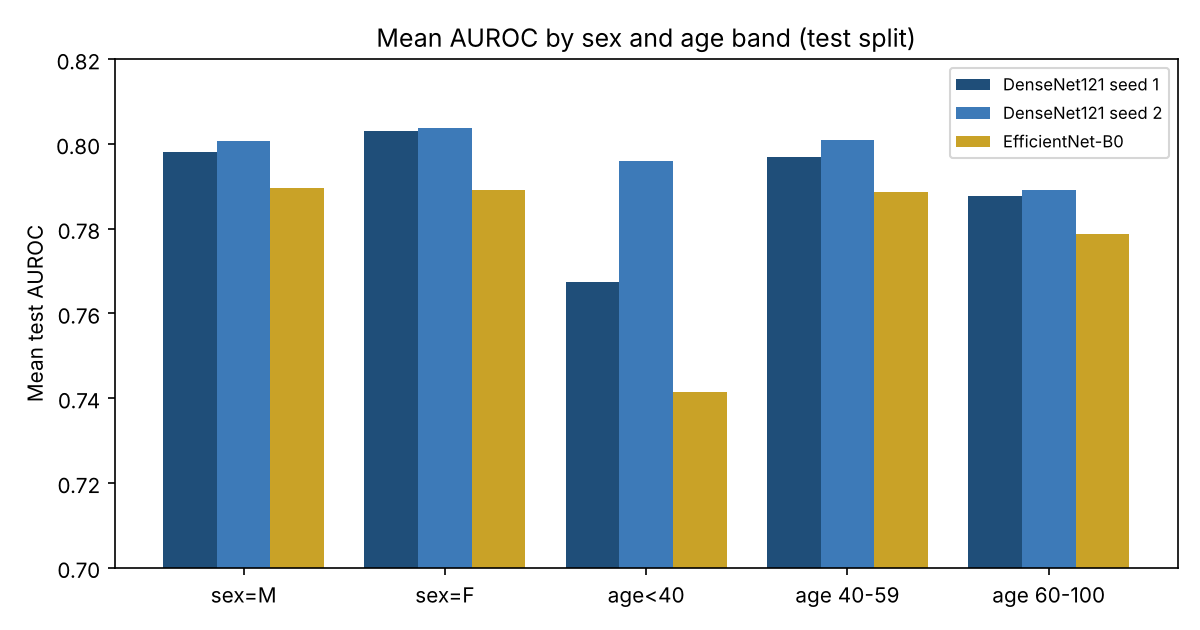
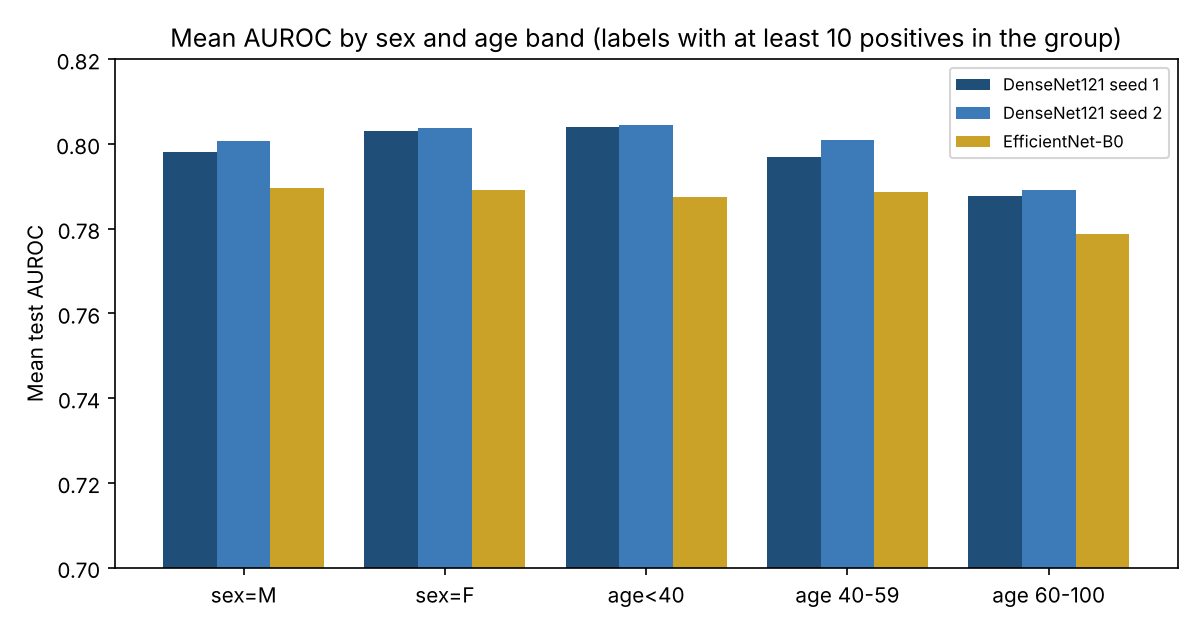
Correct the age subgroup section of the lung X-ray V2.1 article

Changed region(s): [[0.1233, 0.0302, 0.925, 0.0905], [0.555, 0.3016, 0.6167, 0.6333], [0.4625, 0.181, 0.5858, 0.4524]]

diff --git a/insights/lung-xray-v21-seeds-calibration.html b/insights/lung-xray-v21-seeds-calibration.html
@@ -47,6 +47,7 @@
     <h1>Three training runs, one bug and a sicker test set: what the second rebuild of my chest X-ray model showed</h1>
     <p class="a-sub">Yesterday's result held up across seeds and the probabilities can now be corrected properly. Two things did not hold up: one line of my own code, and the assumption that new patients look like old ones.</p>
     <p class="updated">By Muzammal Hussain · 30 October 2026 · 5 min read</p>
+    <p><strong>Correction, 31 October:</strong> an earlier version said the model was less reliable for patients under 40. That came from a single hernia case in that group; with enough positive cases per label, under-40 results match the rest. The section "Who does it work for?" has been updated.</p>
     <p class="a-lede">Yesterday I wrote about <a href="lung-xray-v2-calibration.html">rebuilding my chest X-ray model</a>: DenseNet121 reached 0.801 mean AUROC on NIH ChestX-ray14, but its probabilities were several times too high. That post ended with a list of weaknesses: one seed, a correction fitted on the test set itself, and no look at who the model works for. Overnight I ran a second Kaggle notebook to deal with them. Most of the answers were reassuring. Two were not.</p>
 
     <div class="a-keys">
@@ -98,10 +99,11 @@
 
     <h2>Who does it work for?</h2>
     <figure class="a-fig">
-      <img src="../images/insights/lung-v21-subgroups.png" alt="Bar chart of mean test AUROC by sex and age band for three models. Men and women are within 0.006. Patients under 40 have the lowest and most variable scores: 0.767, 0.796 and 0.741.">
-      <figcaption>Figure 4. Mean test AUROC by sex and age band.</figcaption>
+      <img src="../images/insights/lung-v21-subgroups.png" alt="Bar chart of mean test AUROC by sex and age band for three models, averaged over labels with at least 10 positive cases in the group. All groups lie between about 0.78 and 0.81; patients aged 60 to 100 are slightly lower.">
+      <figcaption>Figure 4. Mean test AUROC by sex and age band, over labels with at least 10 positive cases in the group.</figcaption>
     </figure>
-    <p>Men and women came out within 0.006 of each other for every model. Age was different. For patients under 40 (8,290 test images) the score was lower and jumped between runs: 0.767 and 0.796 for the two DenseNet121 seeds and 0.741 for EfficientNet-B0. No other group moved that much. My guess is that some findings are rare in younger patients, so a handful of cases decide the score for those labels. I have not counted them yet, and until I do, I would not trust any single number for this group.</p>
+    <p>Men and women came out within 0.006 of each other for every model. The first version of this table also showed something alarming: for patients under 40 the score was lower and jumped between runs, from 0.741 to 0.796. When I counted the positive cases behind it, the explanation was simple. The under-40 test group contains exactly one image with a hernia. Its hernia AUROC is therefore decided by where one image lands in the ranking, anywhere from 0.14 to 0.69 across the runs, and that single number dragged the average of 14 labels around.</p>
+    <p>Averaging only over labels with at least 10 positive cases in the group, patients under 40 score 0.804, 0.804 and 0.788, the same as the test set as a whole. The oldest band, 60 to 100, is the lowest, by about 0.01. Sex and age make little difference to this model's ranking.</p>
 
     <h2>Where the model looks</h2>
     <figure class="a-fig">
@@ -115,13 +117,13 @@
       <li>The headline number was not luck. 0.80 is what this set-up gives, and averaging a few runs is a cheap way to do better.</li>
       <li>Calibrated probabilities are only as good as the match between the patients they were fitted on and the patients they are used on.</li>
       <li>A result that looks wrong usually is. Reading my own code found the bug faster than any new experiment would have.</li>
-      <li>Averages hide groups. The overall score says nothing about how unstable the model is for patients under 40.</li>
+      <li>Check the counts before reading a subgroup score. One rare case can make a whole group look unreliable when it is not.</li>
     </ul>
 
     <h2>Limitations</h2>
     <ul>
       <li>Several seeds only for DenseNet121. EfficientNet-B0 and ResNet50 have one run each.</li>
-      <li>Subgroup scores have no intervals, and I have not yet counted positive cases per age group.</li>
+      <li>Subgroup scores have no intervals, and labels with fewer than 10 positive cases in a group are left out of its average.</li>
       <li>224x224 images with flips only, labels mined from radiology report text, and all images from one hospital.</li>
       <li>This is a research experiment, not a medical device, and must not be used for diagnosis.</li>
     </ul>
